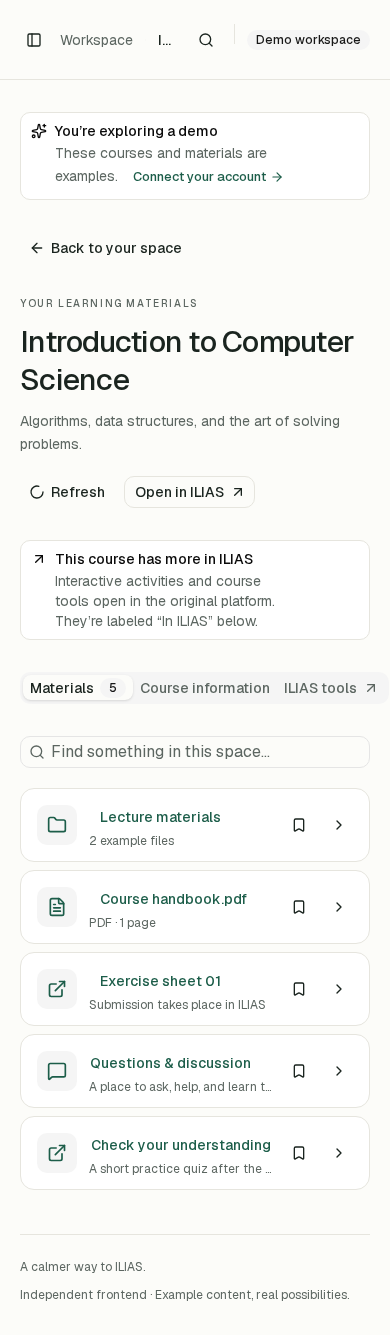
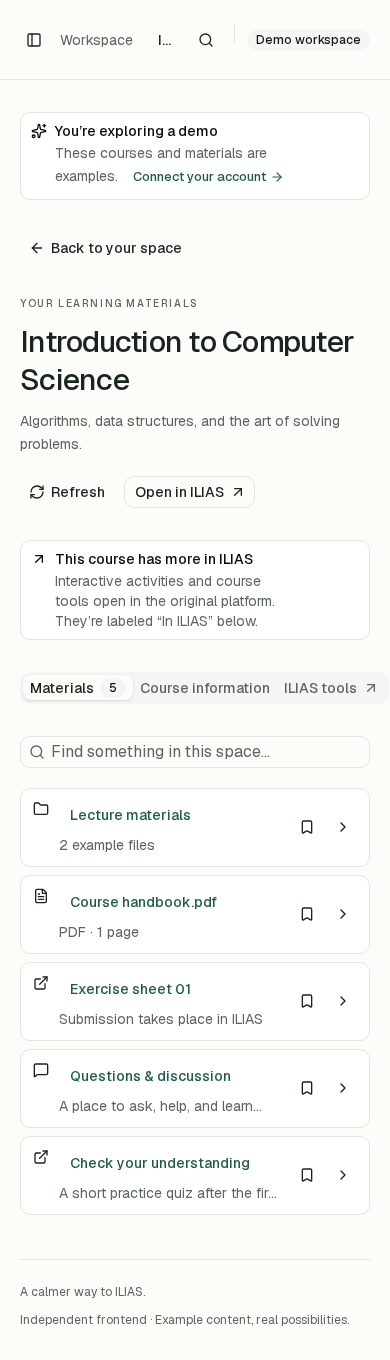
Use consistent shadcn lists and document feature boundaries

diff --git a/src/components/workspace/item-list.tsx b/src/components/workspace/item-list.tsx
@@ -22,6 +22,15 @@ import {
 import { isSupportedItemType, itemKey, typeNames } from "@/lib/ilias/items";
 import type { Item } from "@/lib/ilias/types";
 import { cn } from "@/lib/utils";
+import {
+  Item as ResourceItem,
+  ItemGroup,
+  ItemMedia,
+  ItemContent,
+  ItemTitle,
+  ItemDescription,
+  ItemActions,
+} from "@/components/ui/item";
 import { ItemAction } from "@/components/navigation/item-action";
 
 import { iconFor } from "./item-icon";
@@ -45,7 +54,8 @@ export function ItemList({
   onToggleSave: (item: Item) => void;
 }) {
   return (
-    <div
+    <ItemGroup
+      aria-label="Learning resources"
       className={cn(
         grid && layout === "grid"
           ? "grid grid-cols-1 gap-4 sm:grid-cols-2 xl:grid-cols-3"
@@ -56,7 +66,11 @@ export function ItemList({
         const Icon = iconFor(item.type);
         const isSaved = saved.some((i) => itemKey(i) === itemKey(item));
         return grid && layout === "grid" ? (
-          <Card key={itemKey(item)} className="course-card group">
+          <Card
+            key={itemKey(item)}
+            role="listitem"
+            className="course-card group"
+          >
             <CardHeader>
               <div className="mb-5 flex items-start justify-between">
                 <span className="course-monogram" data-tone={index % 3}>
@@ -120,65 +134,71 @@ export function ItemList({
             </CardFooter>
           </Card>
         ) : (
-          <div
+          <ResourceItem
             key={itemKey(item)}
-            className="resource-row group flex min-w-0 items-center gap-3 rounded-xl border px-4 py-3"
+            role="listitem"
+            variant="outline"
+            className="resource-row min-w-0 flex-nowrap"
           >
-            <span className="flex size-10 shrink-0 items-center justify-center rounded-lg bg-muted text-primary">
-              <Icon className="size-5" />
-            </span>
-            <div className="min-w-0 flex-1">
+            <ItemMedia variant="icon">
+              <Icon />
+            </ItemMedia>
+            <ItemContent className="min-w-0">
+              <ItemTitle className="max-w-full">
+                <ItemAction
+                  variant="link"
+                  className="resource-title"
+                  item={item}
+                  demo={demo}
+                  onOpen={onOpen}
+                  onVisit={onVisit}
+                >
+                  {item.title}
+                </ItemAction>
+              </ItemTitle>
+              <ItemDescription className="line-clamp-1">
+                {item.meta ||
+                  item.description ||
+                  typeNames[item.type] ||
+                  item.type}
+              </ItemDescription>
+            </ItemContent>
+            <ItemActions>
+              {!item.available ? (
+                <Badge variant="outline">Restricted</Badge>
+              ) : !isSupportedItemType(item.type) ? (
+                <Badge variant="outline" className="hidden sm:inline-flex">
+                  In ILIAS <ArrowUpRight />
+                </Badge>
+              ) : (
+                <Badge variant="secondary" className="hidden sm:inline-flex">
+                  {typeNames[item.type]}
+                </Badge>
+              )}
+              <Button
+                variant="ghost"
+                size="icon-sm"
+                onClick={() => onToggleSave(item)}
+                aria-label={`${isSaved ? "Unsave" : "Save"} ${item.title}`}
+                aria-pressed={isSaved}
+              >
+                <Bookmark className={cn(isSaved && "fill-current")} />
+              </Button>
               <ItemAction
-                variant="link"
-                className="resource-title"
+                variant="ghost"
+                size="icon-sm"
+                aria-label={`Open ${item.title}`}
                 item={item}
                 demo={demo}
                 onOpen={onOpen}
                 onVisit={onVisit}
               >
-                {item.title}
+                <ChevronRight />
               </ItemAction>
-              <p className="truncate text-xs text-muted-foreground">
-                {item.meta ||
-                  item.description ||
-                  typeNames[item.type] ||
-                  item.type}
-              </p>
-            </div>
-            {!item.available ? (
-              <Badge variant="outline">Restricted</Badge>
-            ) : !isSupportedItemType(item.type) ? (
-              <Badge variant="outline" className="hidden sm:inline-flex">
-                In ILIAS <ArrowUpRight />
-              </Badge>
-            ) : (
-              <Badge variant="secondary" className="hidden sm:inline-flex">
-                {typeNames[item.type]}
-              </Badge>
-            )}
-            <Button
-              variant="ghost"
-              size="icon-sm"
-              onClick={() => onToggleSave(item)}
-              aria-label={`${isSaved ? "Unsave" : "Save"} ${item.title}`}
-              aria-pressed={isSaved}
-            >
-              <Bookmark className={cn(isSaved && "fill-current")} />
-            </Button>
-            <ItemAction
-              variant="ghost"
-              size="icon-sm"
-              aria-label={`Open ${item.title}`}
-              item={item}
-              demo={demo}
-              onOpen={onOpen}
-              onVisit={onVisit}
-            >
-              <ChevronRight />
-            </ItemAction>
-          </div>
+            </ItemActions>
+          </ResourceItem>
         );
       })}
-    </div>
+    </ItemGroup>
   );
 }

diff --git a/scripts/smoke.ts b/scripts/smoke.ts
@@ -26,13 +26,35 @@ try {
     .getByRole("link", { name: "Saved for later", exact: true })
     .click();
   await page
+    .getByRole("heading", { name: "Saved for later.", exact: true })
+    .waitFor();
+  await page
     .getByRole("link", { name: "Linear Algebra I", exact: true })
     .waitFor();
   await page.reload();
   await page
     .getByRole("link", { name: "Linear Algebra I", exact: true })
     .waitFor();
+  // A second tab must update the already-mounted Saved screen immediately.
+  const otherTab = await context.newPage();
+  await otherTab.goto(origin + "/?demo=1");
+  await otherTab
+    .getByRole("button", { name: "Unsave Linear Algebra I", exact: true })
+    .click();
+  await page
+    .getByRole("link", { name: "Linear Algebra I", exact: true })
+    .waitFor({ state: "hidden" });
+  await otherTab
+    .getByRole("button", { name: "Save Linear Algebra I", exact: true })
+    .click();
+  await page
+    .getByRole("link", { name: "Linear Algebra I", exact: true })
+    .waitFor();
+  await otherTab.close();
   await page.getByRole("link", { name: "Overview", exact: true }).click();
+  await page
+    .getByRole("heading", { name: "Welcome back, Alex.", exact: true })
+    .waitFor();
   await page
     .getByRole("textbox", { name: "Filter courses and materials" })
     .fill("interaction");
@@ -169,7 +191,7 @@ try {
   );
   assert.deepEqual(errors, []);
   console.log(
-    "Passed: onboarding, navigation, saved-item persistence, filtering, list view, course tabs, activity handoff, folders, PDF download, quick search, mobile navigation/layout, API origin checks, unauthenticated download, invalid pairing, one-time connection claim, expired-session state, reconnect dialog, disconnect.",
+    "Passed: onboarding, navigation, saved-item persistence and cross-tab synchronization, filtering, list view, course tabs, activity handoff, folders, PDF download, quick search, mobile navigation/layout, API origin checks, unauthenticated download, invalid pairing, one-time connection claim, expired-session state, reconnect dialog, disconnect.",
   );
 } finally {
   await deleteSession(testSessionId);

diff --git a/src/components/workspace/workspace-view.tsx b/src/components/workspace/workspace-view.tsx
@@ -277,8 +277,9 @@ export function WorkspaceView({
             )}
           </div>
         </header>
-        <main
+        <div
           id="main-content"
+          tabIndex={-1}
           className="mx-auto flex w-full max-w-7xl flex-col gap-8 px-5 py-8 lg:px-10 lg:py-10"
         >
           {demo && (
@@ -806,7 +807,7 @@ export function WorkspaceView({
                   : "Built for the everyday."}
             </span>
           </footer>
-        </main>
+        </div>
       </SidebarInset>
       <CommandDialog
         open={searchOpen}

diff --git a/src/components/workspace/navigation.tsx b/src/components/workspace/navigation.tsx
@@ -98,7 +98,7 @@ export function Navigation({
   const { setOpenMobile } = useSidebar();
   const suffix = data.mode === "demo" ? "?demo=1" : "";
   return (
-    <Sidebar collapsible="offcanvas">
+    <Sidebar collapsible="offcanvas" role="navigation" aria-label="Workspace">
       <SidebarHeader className="px-5 pt-7 pb-6">
         <Brand demo={data.mode === "demo"} />
         <div className="mt-5 flex items-center gap-2.5 rounded-lg border bg-background px-3 py-3">

diff --git a/scripts/forum-smoke.ts b/scripts/forum-smoke.ts
@@ -18,6 +18,9 @@ try {
     .getByRole("link", { name: "Saved for later", exact: true })
     .click();
   await page
+    .getByRole("heading", { name: "Saved for later.", exact: true })
+    .waitFor();
+  await page
     .getByRole("link", { name: "Questions & discussion", exact: true })
     .click();
   await page

diff --git a/docs/architecture.md b/docs/architecture.md
@@ -1,0 +1,54 @@
+# Code organization
+
+Routes orchestrate server loaders; loaders adapt ILIAS into typed data; feature components render that data using the installed shadcn components. Keep upstream markup and session secrets out of browser components.
+
+| Responsibility                                                    | Location                                                                 |
+| ----------------------------------------------------------------- | ------------------------------------------------------------------------ |
+| App routes, HTTP endpoints, and Server Actions                    | `src/app`                                                                |
+| Shared account metadata and empty page state                      | `src/lib/ilias/workspace-context.ts`                                     |
+| Course/dashboard loading                                          | `src/lib/ilias/workspace.ts`                                             |
+| Forum loading and authorized upstream actions                     | `src/lib/ilias/forum.ts`                                                 |
+| ILIAS HTML adaptation and forum body sanitization                 | `src/lib/ilias/parser.ts`, `forum-parser.ts`                             |
+| Authenticated requests, redirect boundaries, and cookie rotation  | `src/lib/ilias/client.ts`                                                |
+| Session encryption, cookies, claims, and per-session locks        | `src/lib/ilias/session.ts`                                               |
+| Sign-in windows and laptop helper transfers                       | `login.ts`, `browser-login.ts`, `remote-login.ts`, `remote-client.ts`    |
+| Object labels, support classification, identity, and destinations | `src/lib/ilias/items.ts`                                                 |
+| Shared reference/thread/post ID validation                        | `src/lib/ilias/identifiers.ts`                                           |
+| Saved/recent item validation, merging, and updates                | `src/lib/ilias/library.ts`                                               |
+| Browser storage snapshots and subscriptions                       | `src/lib/browser-store.ts`, `src/hooks/use-browser-store.ts`             |
+| Bookmark/history actions and feedback                             | `src/hooks/use-library.ts`                                               |
+| Workspace composition and local interaction state                 | `src/components/workspace/workspace-view.tsx`                            |
+| Sidebar/account menu, resource lists, and settings                | `navigation.tsx`, `item-list.tsx`, `settings-view.tsx` in that directory |
+| Shared resource opening, upstream handoffs, and refresh           | `src/components/navigation`                                              |
+| Forum list/thread presentation                                    | `src/components/forums`                                                  |
+| Installed shadcn primitives                                       | `src/components/ui`                                                      |
+
+## Adding a feature
+
+1. Adapt the upstream representation in `src/lib/ilias`, with representative HTML fixtures when parsing a new layout. Preserve restricted objects and unknown counts instead of silently hiding them.
+2. Add or update its capability in `items.ts`. Resource links, capability badges, browse-route validation, and activity dialogs use that shared classification. A supported downloadable file is distinct from a navigable course or forum.
+3. Build a feature loader using `getWorkspaceContext`. It reads account metadata without fetching ILIAS. Return only the `workspace` and feature data to browser components; the returned server session contains private cookies.
+4. Compose the feature UI from shadcn components. Reuse `OriginalLink`, `ItemAction`, and `RefreshButton` for the established handoffs and navigation behavior. Resource rows use the same shadcn Item composition as forum rows. `SidebarInset` already renders the main landmark; do not nest another main inside it.
+5. Add the route and expose limitations in the interface and Settings feature list. Keep account-wide features that have no course object explicit there too.
+
+Metadata-only pages use `getWorkspaceMetadata`; they should not fetch the upstream dashboard. Production navigation briefly reuses visited pages in the browser. Live course/forum links deliberately disable speculative prefetch because an upstream GET can record visits, read events, or view preferences. Refresh and successful native mark-read actions invalidate that recent-page cache. Account changes perform a full navigation to discard prior client-router content. See [navigation measurements and policy](performance/README.md).
+
+## Local state
+
+Saved items and recent history are scoped to a connection's hashed storage key, with a separate demo key. Restored items are validated, duplicates are removed, and recent history is bounded. Current server metadata takes precedence over saved copies in search. Pure updates in `library.ts` operate on the latest snapshot so bookmark and history changes do not overwrite one another.
+
+`useBrowserStore` uses React's external-store subscription API, with stable snapshots and an empty server snapshot for hydration. It observes same-document changes and native storage events across tabs. Demo read markers use session storage through the same store. If persistence is blocked, the current document remains usable and the action reports the failure. Media queries and the browser origin also use external-store snapshots instead of effects that copy external values into React state.
+
+## Session coordination
+
+Single-use local connection claims, local and remote sign-in completion, cookie rotation writes, and deletion share `withSessionLock`, keyed by session ID. Claims reread and consume the token while holding that lock. Local sign-in completion verifies that the session is still pending. Cookie writes merge only the response’s changes into the latest jar, preserving concurrent rotations and refusing to recreate a deleted session. The shared pairing parser defines the wire format for both local links and helper codes; their distinct authorization and expiry checks remain in the owning service.
+
+These locks coordinate one server process (including its development reloads). The encrypted file store and in-process sign-in jobs are intended for a single server deployment. Multiple replicas would require a shared session store and distributed coordination.
+
+## Verification
+
+Run `bun run lint`, `bun run typecheck`, and `bun run test`. Generated Next output is excluded from lint. Unit tests cover storage validation and synchronization, current-data precedence, object capabilities, encrypted sessions, concurrent/replayed/cancelled claims, concurrent cookie rotation, disconnect races, and the upstream adapters. Session tests share an isolated-process runner so their environment-bound data directories and module mocks cannot leak into one another.
+
+With `next dev` running, `bun run test:e2e` covers courses, cross-tab bookmarks, downloads, forums, and headless pairing. Wait for a destination's heading before asserting shared item text: the same resource can appear on both sides of a client navigation. A link visible on the outgoing page is not proof that navigation completed.
+
+Run `bun run test:navigation` against a production server to check real prefetch behavior and account cache clearing. Use `ACHILIAS_BUILD_DIR=.next-build` for a separate build while development is running. Authenticated Freiburg compatibility still needs a real account; fixture and demo tests do not establish it.

diff --git a/README.md b/README.md
@@ -188,6 +188,7 @@ University identity-provider cookies are not copied into the ILIAS adapter. Remo
 ## Development and verification
 
 ```sh
+bun run lint
 bun run typecheck
 bun run test
 # Start the dev server first, then:
@@ -197,7 +198,7 @@ bun run build
 bun run start --hostname 127.0.0.1
 ```
 
-`bun run test` checks ILIAS template parsing, restricted/unsupported content, cookie rotation, redirect credential boundaries, expired sessions, pairing validation, and encrypted session persistence. Forum fixtures follow the ILIAS 10 standard-item and post templates and check counts, hierarchy, sanitization, drafts, permissions, pagination, and action scoping. `bun run test:e2e` checks the demo flows in Chromium, including download, bookmarks across reloads, quick search, mobile navigation, single-use connection claims, session expiry, and reconnect/disconnect behavior. The last checks use a deliberately credential-free test session against the public Freiburg endpoint; they do not sign in to a real account. `bun run test:forums` runs the forum browser checks alone, including filters, reply context, post search, unread jumps, copied links, read-state persistence in the demo, closed topics, and mobile layouts. `bun run test:headless` exercises the pairing UI, code renewal/cancellation, remote CLI over stdin, and rejection of an unauthenticated transfer. Unit tests mock successful validation to check replay protection and cancellation races; no real account is used. For production navigation, run `bun run test:navigation` and `bun run benchmark:navigation` against a production preview (port 3001 by default). Set `ACHILIAS_TEST_URL` to test another local port.
+`bun run test` checks browser-store synchronization, restored-item validation, current-data precedence, object capabilities, concurrent connection claims, cookie-update and disconnect races, ILIAS template parsing, restricted/unsupported content, cookie rotation, redirect credential boundaries, expired sessions, pairing validation, and encrypted session persistence. Forum fixtures follow the ILIAS 10 standard-item and post templates and check counts, hierarchy, sanitization, drafts, permissions, pagination, and action scoping. `bun run test:e2e` checks the demo flows in Chromium, including download, bookmarks across reloads and tabs, quick search, mobile navigation, single-use connection claims, session expiry, and reconnect/disconnect behavior. The last checks use a deliberately credential-free test session against the public Freiburg endpoint; they do not sign in to a real account. `bun run test:forums` runs the forum browser checks alone, including filters, reply context, post search, unread jumps, copied links, read-state persistence in the demo, closed topics, and mobile layouts. `bun run test:headless` exercises the pairing UI, code renewal/cancellation, remote CLI over stdin, and rejection of an unauthenticated transfer. Unit tests mock successful validation to check replay protection and cancellation races; no real account is used. For production navigation, run `bun run test:navigation` and `bun run benchmark:navigation` against a production preview (port 3001 by default). Set `ACHILIAS_TEST_URL` to test another local port.
 
 While `next dev` is running, use `ACHILIAS_BUILD_DIR=.next-build bun run build` to preserve its `.next` directory. Start that build with the same variable if you want to run it.
 
@@ -217,4 +218,4 @@ Reference sources:
 
 ### Code map
 
-`src/lib/ilias/parser.ts` owns ILIAS DOM adaptation. `forum-parser.ts` adapts the ILIAS forum pages and sanitizes posts, `forum.ts` resolves authenticated forum navigation, and `src/components/forums` renders the discussion reader. `client.ts` owns authenticated requests and redirects. `session.ts`, `login.ts`, and `pairing.ts` own session storage and browser sign-in. `src/app` contains server-rendered routes and API handlers. `src/components/workspace` composes the application interface from CLI-installed shadcn primitives in `src/components/ui`. Upstream ILIAS code is reference material, not vendored into the app.
+See [code organization and feature development](docs/architecture.md) for the module map, shared object capabilities, browser-state rules, session coordination, and verification guidance. The workspace composes separate navigation, resource-list, and settings components from CLI-installed shadcn primitives. Course and forum loaders share account context, while their parsers own the upstream HTML adaptation. Upstream ILIAS code is reference material, not vendored into the app.
